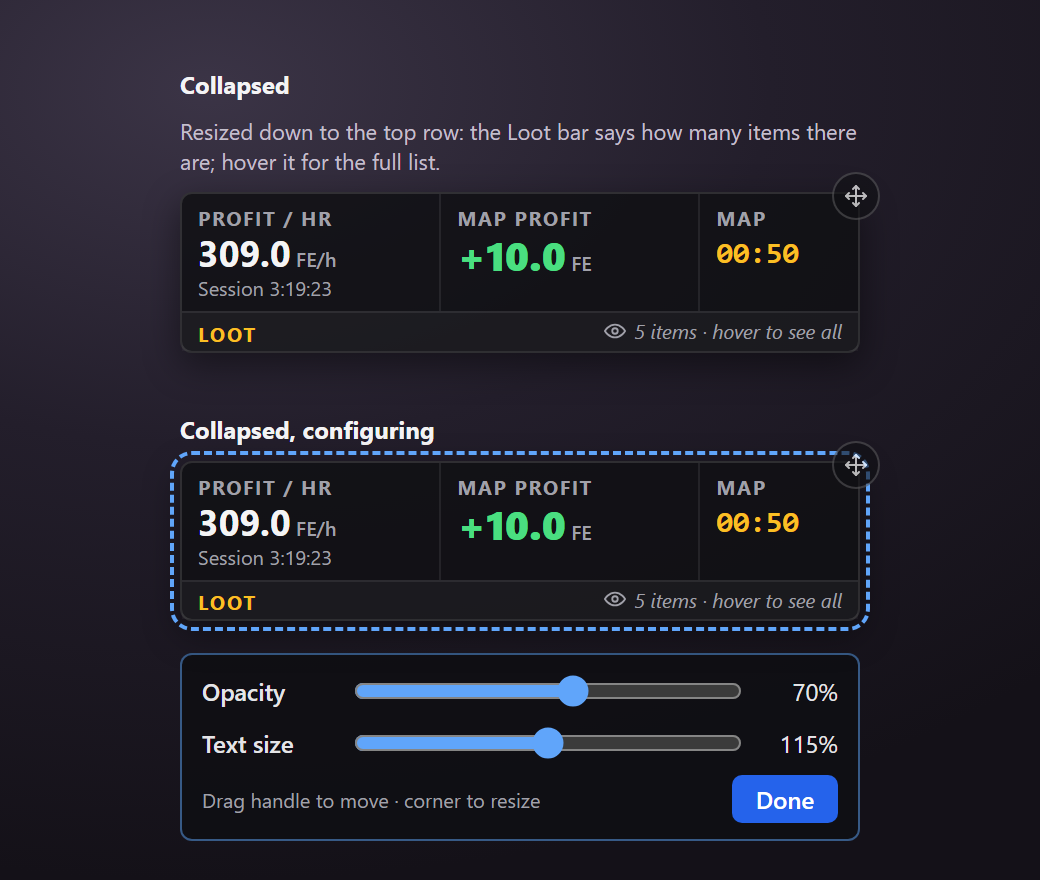
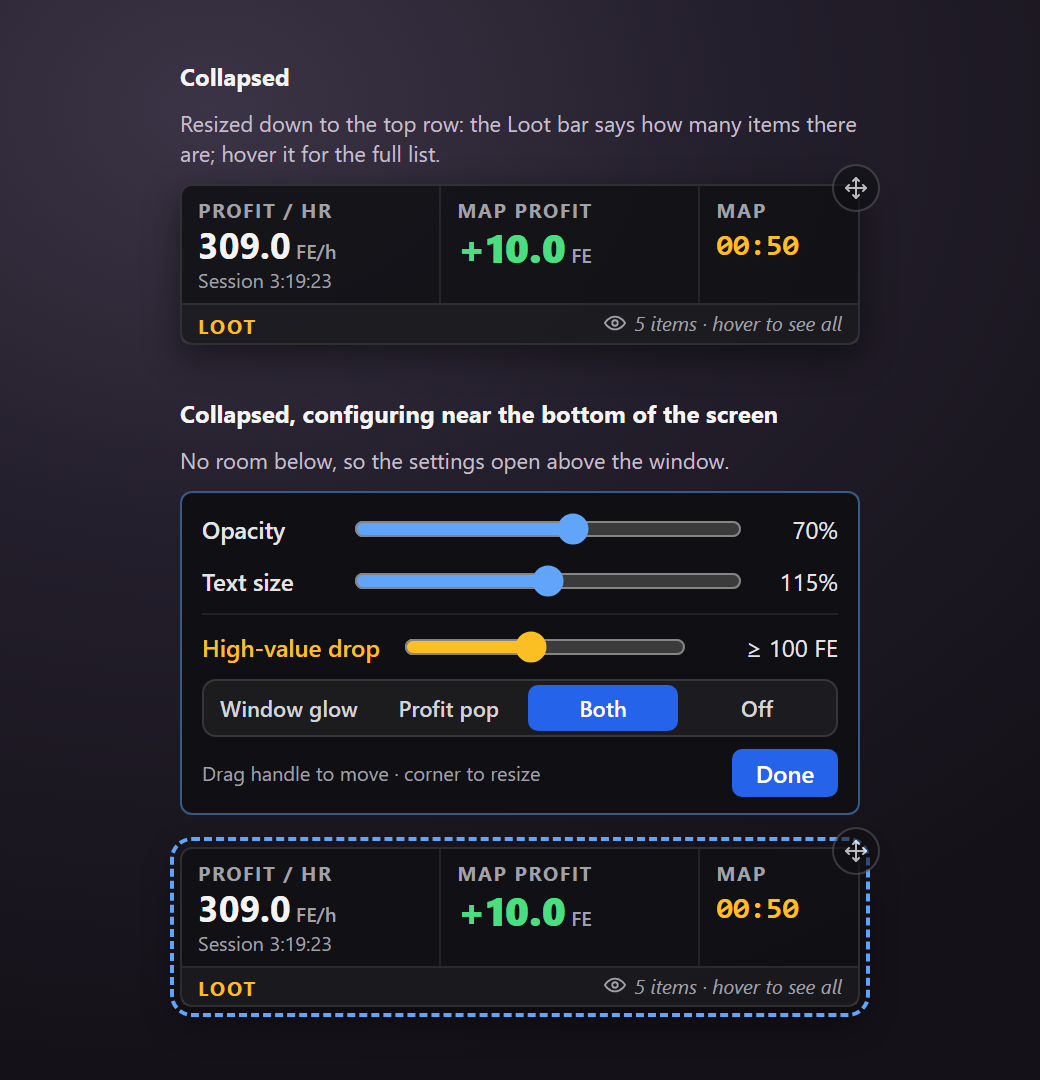
fix(compact): keep big profit numbers from overflowing
Values of 1000 FE and more ran past the 40 px value column in the loot
rows, and Map profit and Profit / hr were cut off with an ellipsis at
narrow widths or larger text. Amounts now drop the decimal from 1000 and
switch to k / M from 100,000 and a million, the value column grows with
its number, labels no longer wrap, and the two-column snap point moves
from 165 to 185 px so the session time fits.

Changed region(s): [[0.1538, 0.0614, 0.8615, 0.9511]]

diff --git a/src/components/CompactWindow.vue b/src/components/CompactWindow.vue
@@ -32,7 +32,7 @@
         opacity: 0,
         animation: 'cw-float 2.4s ease-out 1 forwards',
       }"
-    >+{{ Math.round(fx.value) }} FE</span>
+    >{{ fmtSigned(fx.value) }} FE</span>
     <div
       ref="boxRef"
       class="relative flex flex-col overflow-hidden select-none"
@@ -49,14 +49,14 @@
     >
       <div ref="topRef" class="shrink-0 grid" :style="{ gridTemplateColumns: TOP_COLS[cols], containerType: 'inline-size' }">
         <div v-if="cols >= 2" class="px-2 py-[5px] min-w-0" style="border-right: 1px solid rgba(255,255,255,0.08);">
-          <div class="text-[length:calc(10px*var(--fs))] font-bold uppercase tracking-[0.08em]" style="color: #a1a1aa;">Profit / hr</div>
+          <div class="text-[length:calc(10px*var(--fs))] font-bold uppercase tracking-[0.08em] whitespace-nowrap truncate" style="color: #a1a1aa;">Profit / hr</div>
           <div class="font-bold leading-[1.2] whitespace-nowrap truncate" style="font-size: calc(clamp(12px, calc(6cqw * var(--cq)), 18px) * var(--fs));">
-            {{ store.profitPerHour }}<span class="text-[length:calc(10px*var(--fs))] font-semibold" style="color: #a1a1aa;"> FE/h</span>
+            {{ perHour }}<span class="text-[length:calc(10px*var(--fs))] font-semibold" style="color: #a1a1aa;"> FE/h</span>
           </div>
-          <div class="text-[length:calc(10px*var(--fs))] leading-[1.2]" style="color: #a1a1aa;">Session {{ store.formattedSessionTimer }}</div>
+          <div class="text-[length:calc(10px*var(--fs))] leading-[1.2] whitespace-nowrap truncate" style="color: #a1a1aa;">Session {{ store.formattedSessionTimer }}</div>
         </div>
         <div ref="profitRef" class="px-2 py-[5px] min-w-0" :style="cols === 3 ? { borderRight: '1px solid rgba(255,255,255,0.08)' } : {}">
-          <div class="text-[length:calc(10px*var(--fs))] font-bold uppercase tracking-[0.08em]" style="color: #a1a1aa;">Map profit</div>
+          <div class="text-[length:calc(10px*var(--fs))] font-bold uppercase tracking-[0.08em] whitespace-nowrap truncate" style="color: #a1a1aa;">Map profit</div>
           <div
             class="font-extrabold leading-[1.2] whitespace-nowrap truncate"
             :style="{
@@ -70,7 +70,7 @@
           </div>
         </div>
         <div v-if="cols === 3" class="px-2 py-[5px] min-w-0">
-          <div class="text-[length:calc(10px*var(--fs))] font-bold uppercase tracking-[0.08em]" style="color: #a1a1aa;">Map</div>
+          <div class="text-[length:calc(10px*var(--fs))] font-bold uppercase tracking-[0.08em] whitespace-nowrap truncate" style="color: #a1a1aa;">Map</div>
           <div class="font-semibold leading-[1.5]" style="font-size: calc(clamp(12px, 5cqw, 15px) * var(--fs)); font-family: Consolas, 'Cascadia Mono', monospace; color: #fbbf24;">{{ store.formattedMapTimer }}</div>
         </div>
       </div>
@@ -115,7 +115,7 @@
               <div v-if="cols > 1" class="flex-1 min-w-0 text-[length:calc(11px*var(--fs))] font-semibold truncate">{{ item.item_name }}</div>
               <div v-else class="flex-1" />
               <div v-if="cols > 1" class="text-[length:calc(11px*var(--fs))]" style="color: #a1a1aa;">×{{ item.qty }}</div>
-              <div class="w-[calc(40px*var(--fs))] text-right text-[length:calc(12px*var(--fs))] font-bold" style="color: #4ade80;">{{ fmtSigned(item.total) }}</div>
+              <div class="shrink-0 min-w-[calc(40px*var(--fs))] text-right text-[length:calc(12px*var(--fs))] font-bold whitespace-nowrap" style="color: #4ade80;">{{ fmtSigned(item.total) }}</div>
             </div>
           </div>
         </div>
@@ -263,7 +263,7 @@
           </div>
           <div class="flex-1 min-w-0 text-[length:calc(11px*var(--fs))] font-semibold truncate">{{ item.item_name }}</div>
           <div class="text-[length:calc(11px*var(--fs))]" style="color: #a1a1aa;">×{{ item.qty }}</div>
-          <div class="w-[calc(40px*var(--fs))] text-right text-[length:calc(12px*var(--fs))] font-bold" style="color: #4ade80;">{{ fmtSigned(item.total) }}</div>
+          <div class="shrink-0 min-w-[calc(40px*var(--fs))] text-right text-[length:calc(12px*var(--fs))] font-bold whitespace-nowrap" style="color: #4ade80;">{{ fmtSigned(item.total) }}</div>
         </div>
         <div v-if="panel.hidden > 0" class="text-center text-[length:calc(10px*var(--fs))] leading-[16px]" style="color: #d4d4d8;">+{{ panel.hidden }} more</div>
       </div>
@@ -291,7 +291,7 @@ const MAX_W     = 640;
 // Narrowing the window drops the top-row blocks one at a time: first the map timer,
 // then profit/hr. Map profit always stays; its width is the window's minimum.
 const FULL_W    = 240;
-const TWO_COL_W = 165;
+const TWO_COL_W = 185;
 const ONE_COL_W = 100;
 const TOP_COLS: Record<number, string> = {
   3: 'minmax(0, 1.15fr) minmax(0, 1.15fr) minmax(0, 0.7fr)',
@@ -454,9 +454,25 @@ function rowStyle(id: string) {
   };
 }
 
-function fmtSigned(n: number): string {
-  return (n >= 0 ? '+' : '−') + Math.abs(n).toFixed(1);
+// Keeps big numbers short enough for the top row and the loot rows: one decimal below
+// 1000, whole numbers up to 100k, then k and M (a profit/hr in the first seconds of a
+// session can reach millions).
+function fmtAmount(n: number): string {
+  const a = Math.abs(n);
+  if (a >= 999_950) return (a / 1e6).toFixed(a >= 9_999_500 ? 0 : 1) + 'M';
+  if (a >= 99_999.5) return Math.round(a / 1e3) + 'k';
+  if (a >= 999.95) return String(Math.round(a));
+  return a.toFixed(1);
 }
+
+function fmtSigned(n: number): string {
+  return (n >= 0 ? '+' : '−') + fmtAmount(n);
+}
+
+const perHour = computed(() => {
+  const n = Number(store.profitPerHour);
+  return (n < 0 ? '−' : '') + fmtAmount(n);
+});
 
 type LootRow = (typeof groupedDrops.value)[number];
 

diff --git a/docs/features/compact-window.md b/docs/features/compact-window.md
@@ -11,7 +11,8 @@ Images on this page are rendered from the design, except the F8 panel and the ho
 - **Profit / hr** for the session, with the session time under it.
 - **Map profit**: starts at minus the map's cost (map activation plus consumables) when a map begins, and rises with every drop. Red below zero, green above.
 - **Map**: the map timer.
-- **Loot**: the current map's drops, most valuable first, with quantity and value. Before the first drop it shows "Waiting for drops…" and how much FE is needed to break even, when there is room for it.
+- **Loot**: the current map's drops, most valuable first, with quantity and value.
+- **Big numbers** stay short so they fit: one decimal below 1000 FE (`+431.5`), whole numbers from 1000 (`+9877`), then `k` from 100,000 and `M` from a million. A profit/hr in the first seconds of a session can reach millions, so it shows as `3.6M`. Before the first drop it shows "Waiting for drops…" and how much FE is needed to break even, when there is room for it.
 
 ## Using it
 
@@ -29,7 +30,7 @@ Images on this page are rendered from the design, except the F8 panel and the ho
 
 Shrunk down to the top row and the Loot bar, the window keeps only the numbers; the Loot bar says how many items there are and the full list is a hover away.
 
-![Collapsed window, normal and in configure mode](img/compact-window/collapsed.png)
+![Collapsed window, and in configure mode near the bottom of the screen with the settings above it](img/compact-window/collapsed.png)
 
 Narrowing it drops the top-row blocks one at a time:
 
